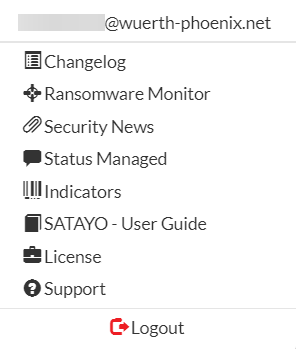
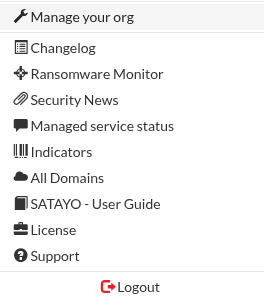
feat: Introduced the new release of SATAYO  (#10)

Changed region(s): [[0.0, 0.0, 1.0, 0.8557], [0.0, 0.8852, 1.0, 0.9738]]

diff --git a/doc/intelligence-requirements/intelligence-requirements.rst b/doc/intelligence-requirements/intelligence-requirements.rst
@@ -33,21 +33,40 @@ The following are the items that the organization is required to provide:
 
 SATAYO also provides multiple sections for autonomous configuration of some monitoring elements, such as keywords, domains, and social media accounts.
 
-Configuring VIP accounts
-~~~~~~~~~~~~~~~~~~~~~~~~~
+.. _maintain-req:
 
-The email section allows you to define VIP accounts that require special monitoring attention. These accounts may belong to high-profile individuals within the organization, such as executives or key personnel, whose online presence and activities could be of particular interest for security monitoring. Also it lets you specify unused email addresses realed to disabled or deprecated users or mailboxes.
+Maintaining the Requirements
+~~~~~~~~~~~~~~~~~~~~~~~~~~~~
 
-.. image:: mail.png
+The requirements are not static and may evolve over time due to changes in the organization's operations, market conditions, or emerging threats. Therefore, it is essential to establish a process for regularly reviewing and updating the intelligence requirements to ensure they remain relevant and effective.
+
+For this reason, SATAYO platform provides a periodic confirmation workflow for Priority Intelligence Requirements with overdue review alert. A dedicated section is available in the :ref:`Manage Your Org<manage-your-org>` page, where the organization can review and update its requirements as needed.
+The CTI team will review and validate the request and, if permitted under the current license, the perimeter will be updated accordingly.
+
+.. image:: pir-001.png
     :align: center
 
-Navigate to the "Email" section in the SATAYO platform. There you could find the list of monitored email addresses.
+In this page, the organization can review and update its requirements as needed.
 
-+ 1. Button let you define if an email belong to a VIP account.
-+ 2. Button let you specify unused email addresses related to disabled or deprecated users or mailboxes.
++ 1. Ransomware monitor keywords, country sector and identity information could be updated by clicking on the "Edit" button.
++ 2. Technology mapping, users can define the technologies that are relevant for the management of Early Warning on the same. The list could be updated by clicking on the "Edit" button.
++ 3. Resources and assets, users can define the list of exposed domains and assets considered critical. The list will help in prioritizing the monitoring efforts on the organization's digital assets. The list could be reviewed by clicking on the "View" button.
++ 4. VIP Email addresses, users can define the list of sensible email addresses because they may be associated with key personnel or sensitive information. The list could be updated by clicking on the "Edit" button.
++ 5. Preferred Network, users can define the list of preferred networks considered associated with the organization's online perimeter. The list could be reviewed by clicking on the "View" button.
++ 6. Mobile applications, users can define the list of mobile applications maintained or produced by the organization and their customers. The list could be reviewed by clicking on the "View" button.
++ 7. Keyowords, users can define the list of keywords that are considered relevant for monitoring because they may be associated with the organization's identity. It may cover the organization's brand, products, services, and other important terms. The list could be reviewed by clicking on the "View" button.
++ 8. Git repositories, users can define the list of Git repositories that could contain organization-specific information or codebase. The list could be reviewed by clicking on the "View" button.
++ 9. Favicon items, users can define the list of legitimated favicon icons that are associated with the organization's online assets like istitutional sites or public-facing services. The list could be updated by clicking on the "Edit" button.
 
 .. note::
-    SATAYO let you import also a list of personal email addresses that could be related to employees of the organization. A ticket can be :ref:`opened<tickets-opening>` using the request form to ask for the addition of other email addresses. More information about this feature could be found in the section :ref:`Email Monitoring<email-monitoring>`.
+    For each section that requires review, it can be updated by opening a ticket or directly discussing it with the CTI team via the support channels.
+
+
+Every time the organization updates its requirements, the CTI team will review and validate the request and, if permitted under the current license, the perimeter will be updated accordingly. A scheduled notification will be sent to the organization to confirm the review of the requirements.
+
+
+.. image:: pir-004.png
+    :align: center
 
 
 Define keywords and identity for Ransomware Monitor
@@ -67,6 +86,40 @@ The purpose of this section is to enhance the organization’s ability to detect
 + 1. Define keywords and geographic areas that could be relevant for monitoring.
 + 2. Specify keywords that could be relevant for monitoring ransomware-related activities and incidents (When setting keywords, consider the ransomware gangs' modus operandi when publishing the names of victim organizations. The exact name of the victim company is unlikely to be published (for example, **$Company_Name GMBH** is unlikely to be published, but **$Company_Name** is more likely).
 
+Define Technologies for Early Warning
+~~~~~~~~~~~~~~~~~~~~~~~~~~~~~~~~~~~~~~
+
+The technology mapping section allows you to define the technologies that are considered a priority for the management of Early Warning on the same. By specifying relevant technologies, the CTI team can enhance its ability to detect and respond to potential threats related to the organization's technology stack. Early Warning on the same technologies can help identify vulnerabilities, or emerging threats that may impact the organization's systems and applications.
+
+This section allows the input of technologies commonly used in the organization's systems and applications, as well as any associated components or dependencies. It helps tailor the monitoring process to the organization’s specific technology landscape.
+
+.. image:: pir-002.png
+    :align: center
+
+|
+
++ 1. Select the technologies that are a priority for Early Warning.
+
+.. image:: pir-003.png
+    :align: center
+
+Configuring VIP accounts
+~~~~~~~~~~~~~~~~~~~~~~~~~
+
+The email section allows you to define VIP accounts that require special monitoring attention. These accounts may belong to high-profile individuals within the organization, such as executives or key personnel, whose online presence and activities could be of particular interest for security monitoring. Also it lets you specify unused email addresses realed to disabled or deprecated users or mailboxes.
+
+.. image:: mail.png
+    :align: center
+
+Navigate to the "Email" section in the SATAYO platform. There you could find the list of monitored email addresses.
+
++ 1. Button let you define if an email belong to a VIP account.
++ 2. Button let you specify unused email addresses related to disabled or deprecated users or mailboxes.
+
+.. note::
+    SATAYO let you import also a list of personal email addresses that could be related to employees of the organization. A ticket can be :ref:`opened<tickets-opening>` using the request form to ask for the addition of other email addresses. More information about this feature could be found in the section :ref:`Email Monitoring<email-monitoring>`.
+
+|
 
 Import and configure legitimated favicon icon
 ~~~~~~~~~~~~~~~~~~~~~~~~~~~~~~~~~~~~~~~~~~~~~~~

diff --git a/doc/settings/settings.rst b/doc/settings/settings.rst
@@ -30,6 +30,18 @@ From here you can:
 |
 |
 
+Manage your org [STATISTICS]
+============================
+
+The page shows information about your organization, such as the number of active users and the list of monitored domains.
+The page also shows the status of the :ref:`Intelligence Requirements<maintain-req>`  configuration, which can be updated by opening a ticket or directly editing the configuration where applicable.
+
+.. image:: setting-000.png
+    :align: center
+
+|
+|
+
 Changelog
 ==========
 

diff --git a/doc/changelog/changelog.rst b/doc/changelog/changelog.rst
@@ -6,6 +6,16 @@ Changelog
 
 This page shows the changelog for the SATAYO Threat Intelligence Platform (TIP).
 
+4.16
+~~~~~
+released on 2026-06-04
+
++ :command:`added` information regarding access to the blacklist indicator list (last GET, ips)
++ :command:`added` new Manage Your Org page with organization overview, active users and monitored domains.
++ :command:`added` Priority Intelligence Requirements section in the Manage Your Org page with configuration status overview.
++ :command:`added` periodic confirmation workflow for Priority Intelligence Requirements with overdue review alert.
++ :command:`fixed` removed duplicate indicators within the blacklist indicator list.
+
 4.15
 ~~~~~
 released on 2025-07-14

diff --git a/doc/requests-form/request-form.rst b/doc/requests-form/request-form.rst
@@ -40,7 +40,7 @@ The first part of the form requires you to provide some basic information about 
 +------------------------------------------+----------------------------------------------------------------------------------------------------------------------------------------------------------------------------------+
 | EXPLOIT OR VULNERABILITY DETAILS         | Describe weaknesses in systems and the methods used to take advantage of them. They help assess risk and guide timely patching and remediation efforts.                          |
 +------------------------------------------+----------------------------------------------------------------------------------------------------------------------------------------------------------------------------------+
-| DOMAIN TAKEOVER REQUEST                  | Involves identifying and reclaiming domains that are vulnerable or maliciously controlled. It helps prevent abuse, protect brand integrity, and reduce security risks.           |
+| DOMAIN TAKEDOWN REQUEST                  | Involves identifying and reclaiming domains that are vulnerable or maliciously controlled. It helps prevent abuse, protect brand integrity, and reduce security risks.           |
 +------------------------------------------+----------------------------------------------------------------------------------------------------------------------------------------------------------------------------------+
 
 |